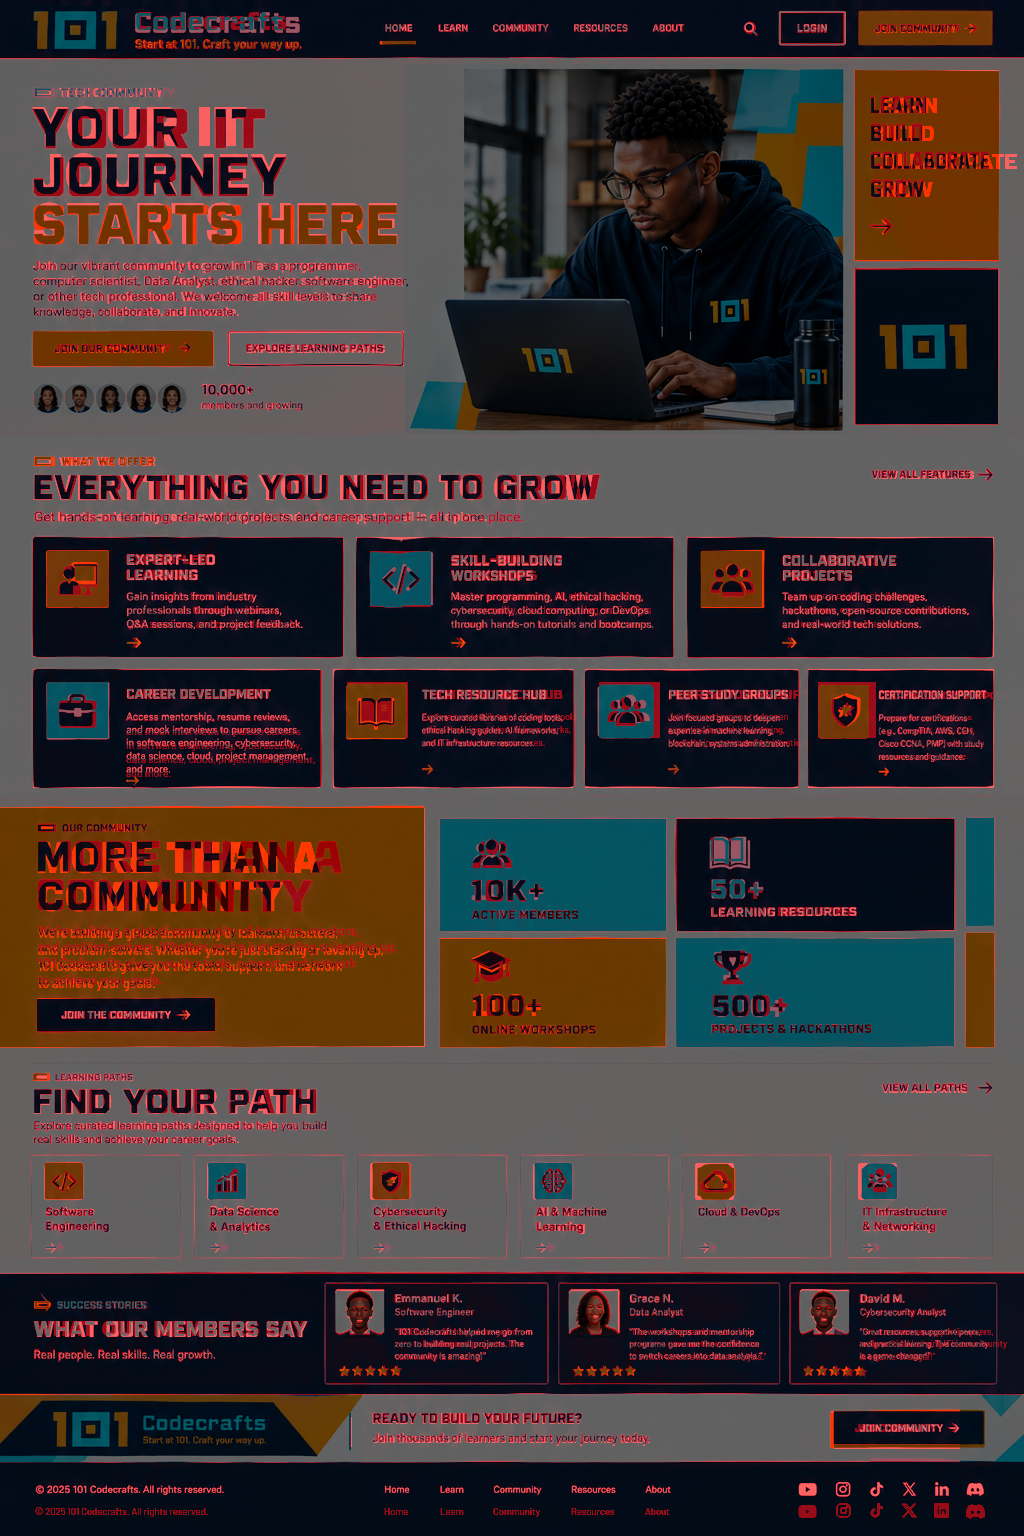
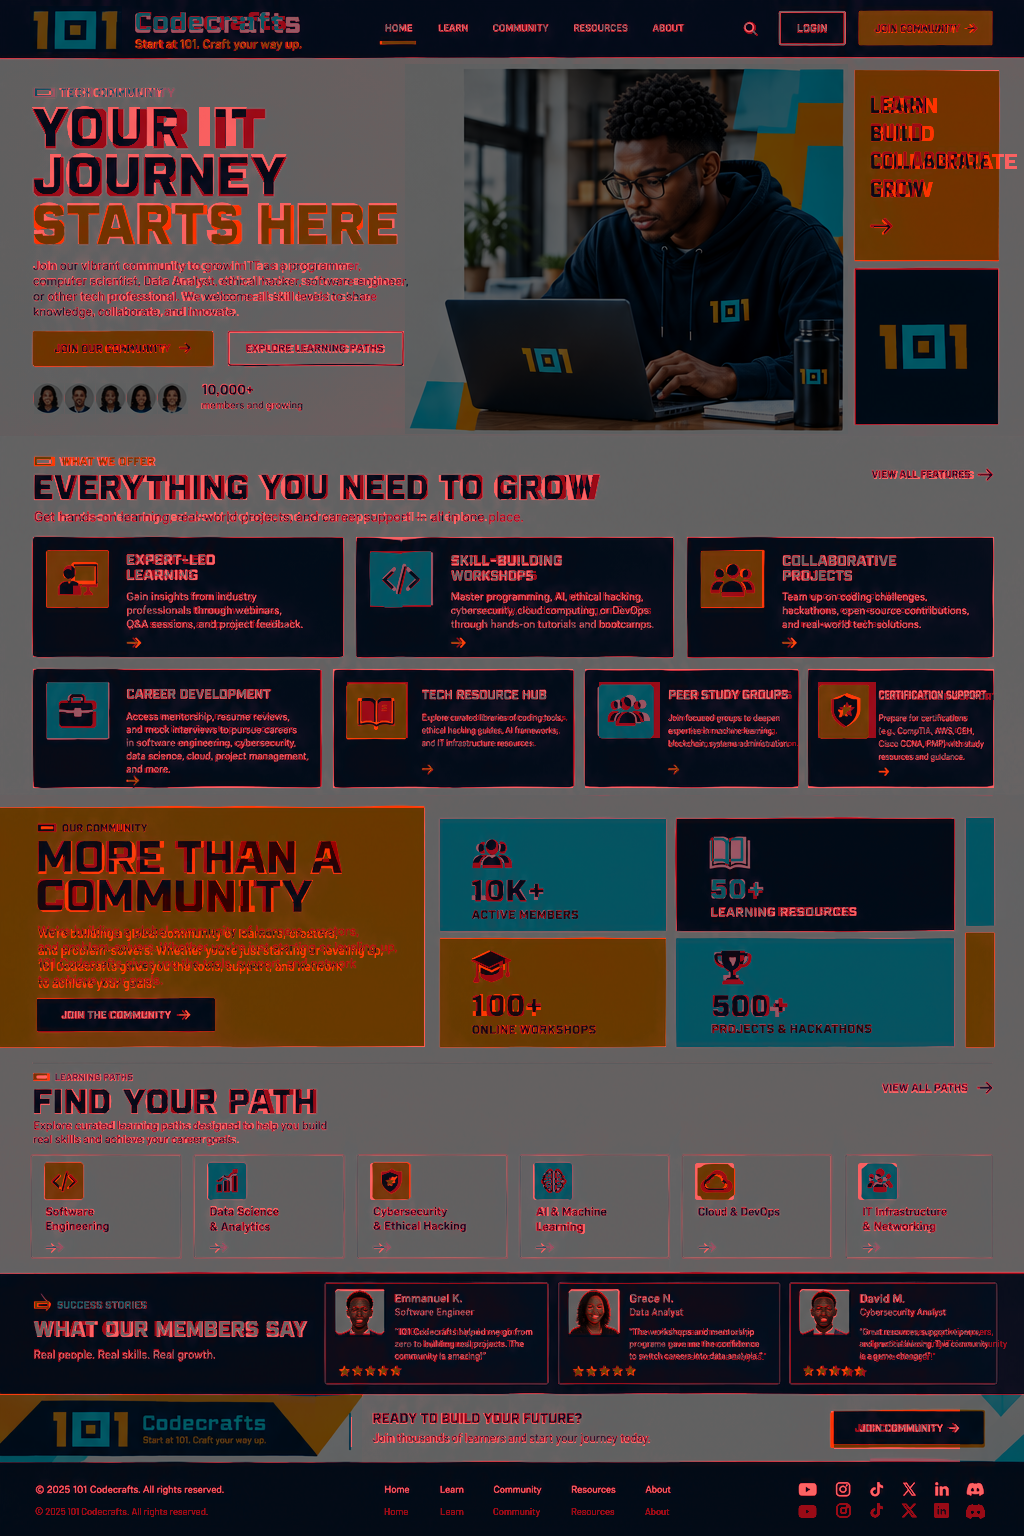
Landing round 5 (SSIM 0.7796)

diff --git a/index.html b/index.html
@@ -126,16 +126,16 @@ GROW</div>
 <article class="feat hov" style="left:356px;top:537px;width:317px;height:120px"><div class="ib" style="top:14px;background:var(--lcy)"><svg><use href="#i-code"/></svg></div><h3 style="left:94px;top:15px">SKILL-BUILDING<br>WORKSHOPS</h3><p style="left:94px;top:53px;width:215px">Master programming, AI, ethical hacking,<br>cybersecurity, cloud computing, or DevOps<br>through hands-on tutorials and bootcamps.</p><svg class="ar" style="left:94px;top:98px"><use href="#i-arrow"/></svg></article>
 <article class="feat hov" style="left:687px;top:537px;width:307px;height:120px"><div class="ib" style="top:14px;background:var(--lor)"><svg><use href="#i-people"/></svg></div><h3 style="left:94px;top:15px">COLLABORATIVE<br>PROJECTS</h3><p style="left:94px;top:53px;width:200px">Team up on coding challenges,<br>hackathons, open-source contributions,<br>and real-world tech solutions.</p><svg class="ar" style="left:94px;top:98px"><use href="#i-arrow"/></svg></article>
 
-<article class="feat hov" style="left:33px;top:669px;width:287px;height:119px"><div class="ib" style="top:13px;background:var(--lcy)"><svg><use href="#i-briefcase"/></svg></div><h3 style="left:93px;top:18px">CAREER DEVELOPMENT</h3><p style="left:93px;top:41px;width:190px">Access mentorship, resume reviews,<br>and mock interviews to pursue careers<br>in software engineering, cybersecurity,<br>data science, cloud, project management,<br>and more.</p><svg class="ar" style="left:93px;top:104px"><use href="#i-arrow"/></svg></article>
-<article class="feat hov" style="left:333px;top:669px;width:240px;height:119px"><div class="ib" style="top:13px;background:var(--lor)"><svg><use href="#i-openbook"/></svg></div><h3 style="left:89px;top:18px">TECH RESOURCE HUB</h3><p style="left:89px;top:41px;width:145px;font-size:9px;line-height:13px">Explore curated libraries of coding tools,<br>ethical hacking guides, AI frameworks,<br>and IT infrastructure resources.</p><svg class="ar" style="left:89px;top:91px"><use href="#i-arrow"/></svg></article>
-<article class="feat hov" style="left:585px;top:669px;width:213px;height:119px"><div class="ib" style="top:13px;background:var(--lcy)"><svg><use href="#i-people"/></svg></div><h3 style="left:84px;top:18px">PEER STUDY GROUPS</h3><p style="left:84px;top:41px;width:125px;font-size:9px;line-height:13px">Join focused groups to deepen<br>expertise in machine learning,<br>blockchain, systems administration.</p><svg class="ar" style="left:84px;top:91px"><use href="#i-arrow"/></svg></article>
-<article class="feat hov" style="left:808px;top:669px;width:186px;height:119px"><div class="ib" style="top:13px;left:10px;width:58px;background:var(--lor)"><svg><use href="#i-badge"/></svg></div><h3 style="left:71px;top:20px;font-size:9.5px">CERTIFICATION SUPPORT</h3><p style="left:71px;top:41px;width:112px;font-size:8.5px;line-height:13px">Prepare for certifications<br>(e.g., CompTIA, AWS, CEH,<br>Cisco CCNA, PMP) with study<br>resources and guidance.</p></article>
+<article class="feat hov" style="left:33px;top:669px;width:287px;height:119px"><div class="ib" style="top:13px;background:var(--lcy)"><svg><use href="#i-briefcase"/></svg></div><h3 style="left:93px;top:18px">CAREER DEVELOPMENT</h3><p style="left:93px;top:42px;width:190px;font-size:10px;line-height:13.2px">Access mentorship, resume reviews,<br>and mock interviews to pursue careers<br>in software engineering, cybersecurity,<br>data science, cloud, project management,<br>and more.</p><svg class="ar" style="left:93px;top:104px"><use href="#i-arrow"/></svg></article>
+<article class="feat hov" style="left:333px;top:669px;width:240px;height:119px"><div class="ib" style="top:13px;background:var(--lor)"><svg><use href="#i-openbook"/></svg></div><h3 style="left:89px;top:19px;font-size:11px">TECH RESOURCE HUB</h3><p style="left:89px;top:42px;width:145px;font-size:8.4px;line-height:13px">Explore curated libraries of coding tools,<br>ethical hacking guides, AI frameworks,<br>and IT infrastructure resources.</p><svg class="ar" style="left:89px;top:91px"><use href="#i-arrow"/></svg></article>
+<article class="feat hov" style="left:585px;top:669px;width:213px;height:119px"><div class="ib" style="top:13px;background:var(--lcy)"><svg><use href="#i-people"/></svg></div><h3 style="left:84px;top:19px;font-size:10.8px">PEER STUDY GROUPS</h3><p style="left:84px;top:42px;width:125px;font-size:8.4px;line-height:13px">Join focused groups to deepen<br>expertise in machine learning,<br>blockchain, systems administration.</p><svg class="ar" style="left:84px;top:91px"><use href="#i-arrow"/></svg></article>
+<article class="feat hov" style="left:808px;top:669px;width:186px;height:119px"><div class="ib" style="top:13px;left:10px;width:58px;background:var(--lor)"><svg><use href="#i-badge"/></svg></div><h3 style="left:71px;top:21px;font-size:8.6px">CERTIFICATION SUPPORT</h3><p style="left:71px;top:42px;width:112px;font-size:8.2px;line-height:13px">Prepare for certifications<br>(e.g., CompTIA, AWS, CEH,<br>Cisco CCNA, PMP) with study<br>resources and guidance.</p></article>
 
 <!-- ============ COMMUNITY ============ -->
 <section class="comm" id="community">
   <div class="eyebrow" style="left:37px;top:13px;color:var(--nv);font-size:11px"><i style="background:var(--nv);height:6px"></i>OUR COMMUNITY</div>
-  <div class="disp split" style="left:37px;top:30px;font-size:35px;transform:scaleY(1.2);color:var(--nv)">MORE THAN A</div>
-  <div class="disp split" style="left:37px;top:68px;font-size:35px;transform:scaleY(1.2);color:var(--nv)">COMMUNITY</div>
+  <div class="disp split" style="left:37px;top:30px;font-family:var(--disp2);font-size:43.4px;transform:scaleY(1.04);color:var(--nv)">MORE THAN A</div>
+  <div class="disp split" style="left:37px;top:68px;font-family:var(--disp2);font-size:43.4px;transform:scaleY(1.04);color:var(--nv)">COMMUNITY</div>
   <p style="left:38px;top:117px;width:390px;font-size:12.5px;line-height:16.5px;font-weight:500;color:var(--nv)">We're building a global community of learners, creators,<br>and problem-solvers. Whether you're just starting or leveling up,<br>101 Codecrafts gives you the tools, support, and network<br>to achieve your goals.</p>
   <a class="btn-nv hov on-dark" href="dashboard.html" style="left:37px;top:191px;width:178px;height:33px">JOIN THE COMMUNITY <svg class="i" style="width:14px;height:14px"><use href="#i-arrow"/></svg></a>
 </section>

diff --git a/src/index.html b/src/index.html
@@ -68,16 +68,16 @@ GROW</div>
 <article class="feat hov" style="left:356px;top:537px;width:317px;height:120px"><div class="ib" style="top:14px;background:var(--lcy)"><svg><use href="#i-code"/></svg></div><h3 style="left:94px;top:15px">SKILL-BUILDING<br>WORKSHOPS</h3><p style="left:94px;top:53px;width:215px">Master programming, AI, ethical hacking,<br>cybersecurity, cloud computing, or DevOps<br>through hands-on tutorials and bootcamps.</p><svg class="ar" style="left:94px;top:98px"><use href="#i-arrow"/></svg></article>
 <article class="feat hov" style="left:687px;top:537px;width:307px;height:120px"><div class="ib" style="top:14px;background:var(--lor)"><svg><use href="#i-people"/></svg></div><h3 style="left:94px;top:15px">COLLABORATIVE<br>PROJECTS</h3><p style="left:94px;top:53px;width:200px">Team up on coding challenges,<br>hackathons, open-source contributions,<br>and real-world tech solutions.</p><svg class="ar" style="left:94px;top:98px"><use href="#i-arrow"/></svg></article>
 
-<article class="feat hov" style="left:33px;top:669px;width:287px;height:119px"><div class="ib" style="top:13px;background:var(--lcy)"><svg><use href="#i-briefcase"/></svg></div><h3 style="left:93px;top:18px">CAREER DEVELOPMENT</h3><p style="left:93px;top:41px;width:190px">Access mentorship, resume reviews,<br>and mock interviews to pursue careers<br>in software engineering, cybersecurity,<br>data science, cloud, project management,<br>and more.</p><svg class="ar" style="left:93px;top:104px"><use href="#i-arrow"/></svg></article>
-<article class="feat hov" style="left:333px;top:669px;width:240px;height:119px"><div class="ib" style="top:13px;background:var(--lor)"><svg><use href="#i-openbook"/></svg></div><h3 style="left:89px;top:18px">TECH RESOURCE HUB</h3><p style="left:89px;top:41px;width:145px;font-size:9px;line-height:13px">Explore curated libraries of coding tools,<br>ethical hacking guides, AI frameworks,<br>and IT infrastructure resources.</p><svg class="ar" style="left:89px;top:91px"><use href="#i-arrow"/></svg></article>
-<article class="feat hov" style="left:585px;top:669px;width:213px;height:119px"><div class="ib" style="top:13px;background:var(--lcy)"><svg><use href="#i-people"/></svg></div><h3 style="left:84px;top:18px">PEER STUDY GROUPS</h3><p style="left:84px;top:41px;width:125px;font-size:9px;line-height:13px">Join focused groups to deepen<br>expertise in machine learning,<br>blockchain, systems administration.</p><svg class="ar" style="left:84px;top:91px"><use href="#i-arrow"/></svg></article>
-<article class="feat hov" style="left:808px;top:669px;width:186px;height:119px"><div class="ib" style="top:13px;left:10px;width:58px;background:var(--lor)"><svg><use href="#i-badge"/></svg></div><h3 style="left:71px;top:20px;font-size:9.5px">CERTIFICATION SUPPORT</h3><p style="left:71px;top:41px;width:112px;font-size:8.5px;line-height:13px">Prepare for certifications<br>(e.g., CompTIA, AWS, CEH,<br>Cisco CCNA, PMP) with study<br>resources and guidance.</p></article>
+<article class="feat hov" style="left:33px;top:669px;width:287px;height:119px"><div class="ib" style="top:13px;background:var(--lcy)"><svg><use href="#i-briefcase"/></svg></div><h3 style="left:93px;top:18px">CAREER DEVELOPMENT</h3><p style="left:93px;top:42px;width:190px;font-size:10px;line-height:13.2px">Access mentorship, resume reviews,<br>and mock interviews to pursue careers<br>in software engineering, cybersecurity,<br>data science, cloud, project management,<br>and more.</p><svg class="ar" style="left:93px;top:104px"><use href="#i-arrow"/></svg></article>
+<article class="feat hov" style="left:333px;top:669px;width:240px;height:119px"><div class="ib" style="top:13px;background:var(--lor)"><svg><use href="#i-openbook"/></svg></div><h3 style="left:89px;top:19px;font-size:11px">TECH RESOURCE HUB</h3><p style="left:89px;top:42px;width:145px;font-size:8.4px;line-height:13px">Explore curated libraries of coding tools,<br>ethical hacking guides, AI frameworks,<br>and IT infrastructure resources.</p><svg class="ar" style="left:89px;top:91px"><use href="#i-arrow"/></svg></article>
+<article class="feat hov" style="left:585px;top:669px;width:213px;height:119px"><div class="ib" style="top:13px;background:var(--lcy)"><svg><use href="#i-people"/></svg></div><h3 style="left:84px;top:19px;font-size:10.8px">PEER STUDY GROUPS</h3><p style="left:84px;top:42px;width:125px;font-size:8.4px;line-height:13px">Join focused groups to deepen<br>expertise in machine learning,<br>blockchain, systems administration.</p><svg class="ar" style="left:84px;top:91px"><use href="#i-arrow"/></svg></article>
+<article class="feat hov" style="left:808px;top:669px;width:186px;height:119px"><div class="ib" style="top:13px;left:10px;width:58px;background:var(--lor)"><svg><use href="#i-badge"/></svg></div><h3 style="left:71px;top:21px;font-size:8.6px">CERTIFICATION SUPPORT</h3><p style="left:71px;top:42px;width:112px;font-size:8.2px;line-height:13px">Prepare for certifications<br>(e.g., CompTIA, AWS, CEH,<br>Cisco CCNA, PMP) with study<br>resources and guidance.</p></article>
 
 <!-- ============ COMMUNITY ============ -->
 <section class="comm" id="community">
   <div class="eyebrow" style="left:37px;top:13px;color:var(--nv);font-size:11px"><i style="background:var(--nv);height:6px"></i>OUR COMMUNITY</div>
-  <div class="disp split" style="left:37px;top:30px;font-size:35px;transform:scaleY(1.2);color:var(--nv)">MORE THAN A</div>
-  <div class="disp split" style="left:37px;top:68px;font-size:35px;transform:scaleY(1.2);color:var(--nv)">COMMUNITY</div>
+  <div class="disp split" style="left:37px;top:30px;font-family:var(--disp2);font-size:43.4px;transform:scaleY(1.04);color:var(--nv)">MORE THAN A</div>
+  <div class="disp split" style="left:37px;top:68px;font-family:var(--disp2);font-size:43.4px;transform:scaleY(1.04);color:var(--nv)">COMMUNITY</div>
   <p style="left:38px;top:117px;width:390px;font-size:12.5px;line-height:16.5px;font-weight:500;color:var(--nv)">We're building a global community of learners, creators,<br>and problem-solvers. Whether you're just starting or leveling up,<br>101 Codecrafts gives you the tools, support, and network<br>to achieve your goals.</p>
   <a class="btn-nv hov on-dark" href="dashboard.html" style="left:37px;top:191px;width:178px;height:33px">JOIN THE COMMUNITY <svg class="i" style="width:14px;height:14px"><use href="#i-arrow"/></svg></a>
 </section>

diff --git a/css/landing.fit.css b/css/landing.fit.css
@@ -21,13 +21,13 @@
 .page > :nth-child(26) > :nth-child(4){translate:-1.00px 0.00px;font-size:16.00px !important;scale:1 1.0000;transform-origin:0 0}
 .page > :nth-child(27) > :nth-child(1) > :nth-child(1){translate:-2.00px 1.00px;font-size:16.00px !important;scale:1 1.0000;transform-origin:0 0}
 .page > :nth-child(27) > :nth-child(2){translate:1.00px -2.00px;font-size:11.61px !important;scale:1 1.1960;transform-origin:0 0}
+.page > :nth-child(27) > :nth-child(3){translate:0.00px -2.00px;font-size:10.11px !important;scale:1 1.0181;transform-origin:0 0}
 .page > :nth-child(28) > :nth-child(1) > :nth-child(1){translate:-2.00px 3.00px;font-size:16.00px !important;scale:1 1.0000;transform-origin:0 0}
 .page > :nth-child(28) > :nth-child(4){translate:-2.00px 2.00px;font-size:16.00px !important;scale:1 1.0000;transform-origin:0 0}
-.page > :nth-child(29) > :nth-child(3){translate:-1.00px 0.00px;font-size:9.06px !important;scale:1 0.9929;transform-origin:0 0}
 .page > :nth-child(29) > :nth-child(4){translate:-3.00px 2.00px;font-size:16.00px !important;scale:1 1.0000;transform-origin:0 0}
-.page > :nth-child(30) > :nth-child(2){translate:6.00px 0.00px;font-size:9.10px !important;scale:1 1.0438;transform-origin:0 0}
 .page > :nth-child(31) > :nth-child(1){translate:1.00px 0.00px;font-size:11.00px !important;scale:1 1.0000;transform-origin:0 0}
-.page > :nth-child(31) > :nth-child(2){translate:-1.00px -2.00px;font-size:36.02px !important;scale:1 1.0179;transform-origin:0 0}
+.page > :nth-child(31) > :nth-child(2){translate:-1.00px -1.00px;font-size:43.12px !important;scale:1 1.0285;transform-origin:0 0}
+.page > :nth-child(31) > :nth-child(3){translate:-1.00px 0.00px;font-size:43.55px !important;scale:1 0.9964;transform-origin:0 0}
 .page > :nth-child(31) > :nth-child(5){translate:0.00px -1.00px;font-size:10.50px !important;scale:1 1.0000;transform-origin:0 0}
 .page > :nth-child(32) > :nth-child(1){translate:1.00px -5.00px;font-size:16.00px !important;scale:1 1.0000;transform-origin:0 0}
 .page > :nth-child(32) > :nth-child(2){translate:-3.00px -3.00px;font-size:26.89px !important;scale:1 1.0000;transform-origin:0 0}

diff --git a/compare/scores.md b/compare/scores.md
@@ -13,3 +13,4 @@ Screenshots taken with headless Chromium at the mockup viewport, `?static=1` (an
 | landing | 3 | 0.7638 | testimonials 0.586, features 0.658, hero_text 0.678 | mockup line breaks forced, icon sizes, tuner now also aligns icons |
 | dashboard | 9 | 0.8425 | activity 0.763, latest 0.773, featured 0.791 | mockup line breaks forced, tuner re-run with icons |
 | landing | 4 | 0.7730 | features 0.669, hero_text 0.687, testimonials 0.659 | testimonial heading block re-positioned, tuner may scale multi-line text |
+| landing | 5 | 0.7796 | testimonials 0.659, features 0.686, hero_text 0.687 | Russo One for MORE THAN A COMMUNITY (glyph test), row-2 feature title sizes |
